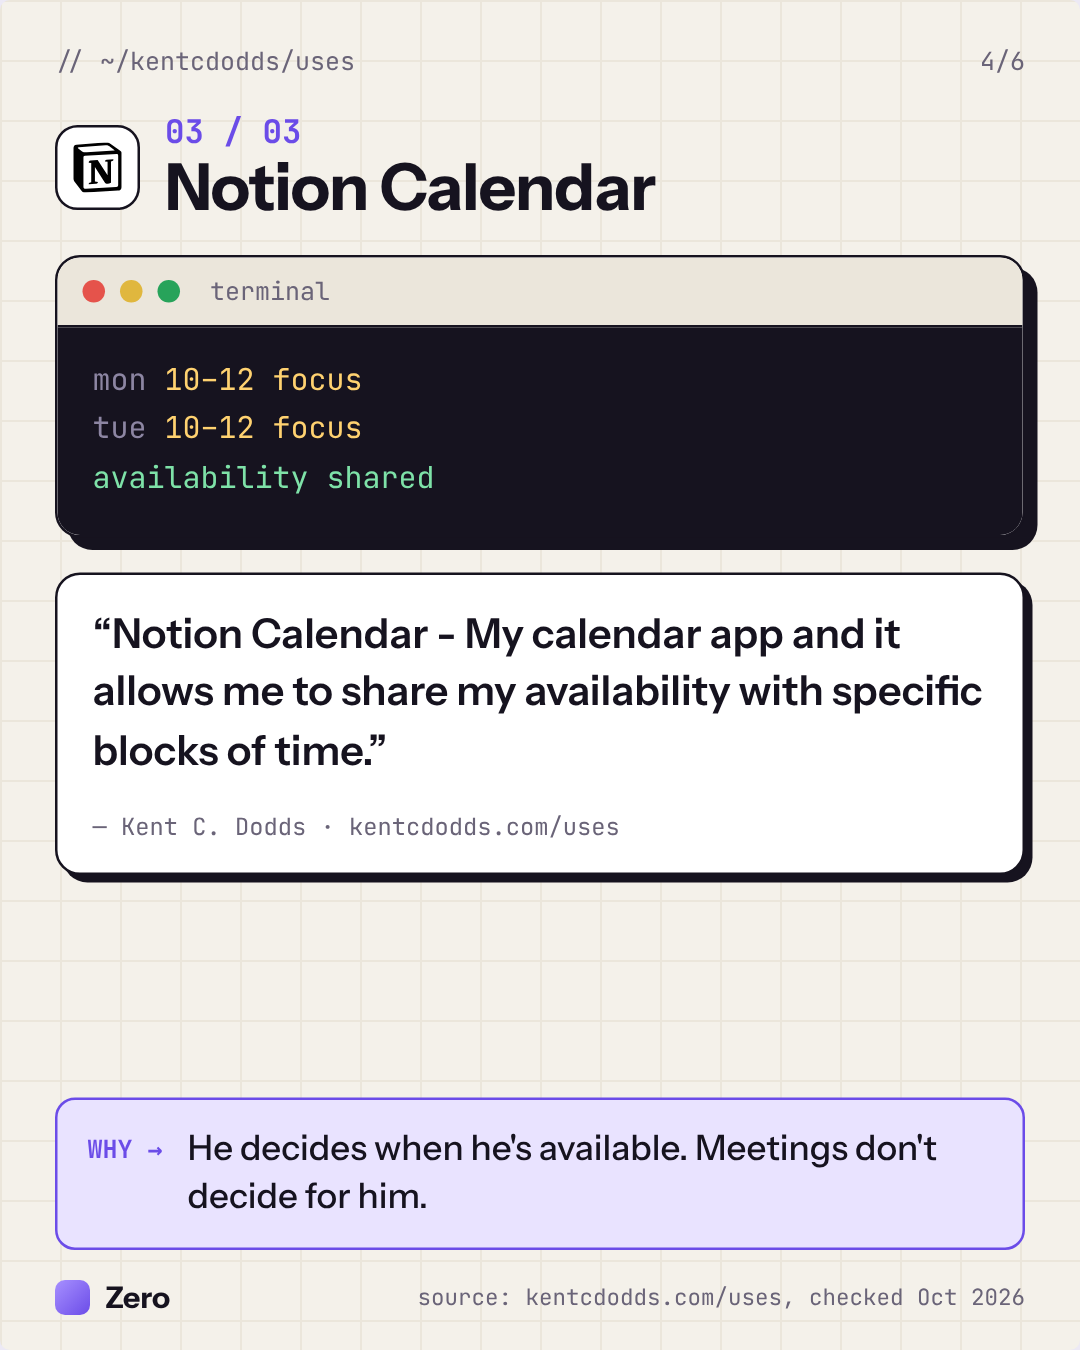
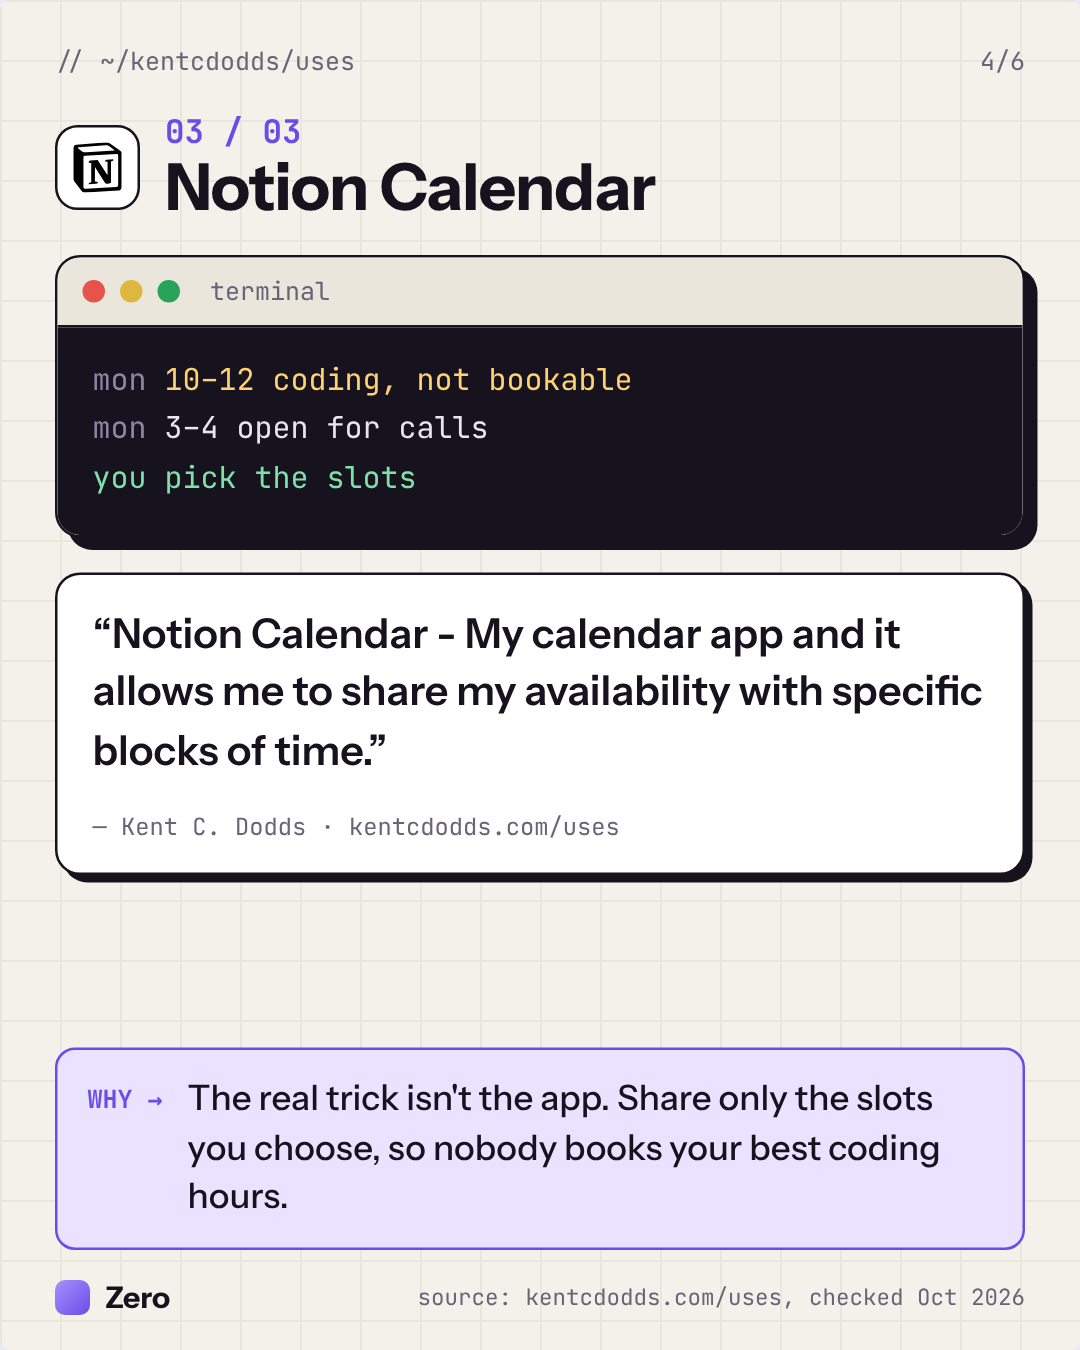
Rewrite Kent C. Dodds carousel in plain, no-hype language
Claude-Session: https://claude.ai/code/session_01EodZgjd13DjtzjPJnHAn5H

diff --git a/carousels/setups.html b/carousels/setups.html
@@ -100,18 +100,19 @@ const S=[
   tldr:["Use a terminal you actually enjoy","Give AI agents more than one try","Block the last 30 min for agents, notifications off"],
   zero:"He blocks his time by hand. If you want those blocks booked for you, try Zero.",zline:"It finds free time in your week, books deep work blocks, and turns Slack asks into tasks."},
  {id:"kent",who:"Kent C. Dodds",role:"ex-PayPal engineer, JavaScript educator",src:"kentcdodds.com/uses, checked Oct 2026",
-  hook:["Kent C. Dodds","shared the tools he","uses <span class='hl'>every day</span>."],
-  sub:"From his public /uses page. 3 picks you can set up today.",
+  hook:["No hype.","Just the 3 tools","Kent C. Dodds <span class='hl'>actually</span> uses."],
+  sub:"Straight from his public /uses page. Nothing sponsored, nothing fancy. Just stuff that works.",
   file:"~/kentcdodds/uses",
   t:[
-   {n:"01",name:"Cursor",logo:"⌘",term:`<span class="m">$</span> cursor .<br><span class="v">›</span> tab, tab, tab<br><span class="g">✓ feature done</span>`,
-    q:"Cursor - My preferred editor.",c:"kentcdodds.com/uses",why:"An AI-first editor. If you live in VS Code, the switch takes 5 minutes."},
-   {n:"02",name:"Raycast + Wispr Flow",logo:"raycast",term:`<span class="v">⌥ space</span> → open anything<br><span class="v">fn</span> → speak instead of type<br><span class="g">fewer clicks, faster notes</span>`,
-    q:"Raycast… Wispr Flow - Voice to text (AI)",c:"kentcdodds.com/uses",why:"A launcher for everything, plus voice typing for long messages and prompts."},
-   {n:"03",name:"Notion Calendar",logo:"notion",term:`<span class="m">mon</span> <span class="y">10–12 focus</span><br><span class="m">tue</span> <span class="y">10–12 focus</span><br><span class="g">availability shared</span>`,
-    q:"Notion Calendar - My calendar app and it allows me to share my availability with specific blocks of time.",c:"kentcdodds.com/uses",why:"He decides when he's available. Meetings don't decide for him."}],
-  tldr:["Try an AI-first editor for a week","Use a launcher and voice typing to save clicks","Share availability in blocks, not your whole day"],
-  zero:"Like the Notion Calendar idea? Another option to try is Zero.",zline:"It works on Google Calendar and books focus blocks from your Slack, Jira and Linear asks."},
+   {n:"01",name:"Cursor",logo:"⌘",term:`<span class="m">$</span> cursor .<br><span class="v">cmd+k</span> → "add error handling here"<br><span class="g">✓ done, you review it</span>`,
+    q:"Cursor - My preferred editor.",c:"kentcdodds.com/uses",why:"Honestly, it's VS Code with AI built in. Your extensions and shortcuts come with you, so trying it costs you nothing. Use it on one real task this week."},
+   {n:"02",name:"Raycast + Wispr Flow",logo:"raycast",term:`<span class="v">⌥ space</span> → open apps, files, snippets<br><span class="v">fn</span> → talk, it types for you<br><span class="g">less clicking around</span>`,
+    q:"Raycast… Wispr Flow - Voice to text (AI)",c:"kentcdodds.com/uses",why:"Raycast is one shortcut for everything, so your hands stay on the keyboard. Wispr Flow is for long stuff, like prompts and PR descriptions. Talking is just faster."},
+   {n:"03",name:"Notion Calendar",logo:"notion",term:`<span class="m">mon</span> <span class="y">10–12 coding, not bookable</span><br><span class="m">mon</span> 3–4 open for calls<br><span class="g">you pick the slots</span>`,
+    q:"Notion Calendar - My calendar app and it allows me to share my availability with specific blocks of time.",c:"kentcdodds.com/uses",why:"The real trick isn't the app. Share only the slots you choose, so nobody books your best coding hours."}],
+  tldrTitle:"No hype. Just this:",
+  tldr:["Use an editor with AI built in, and test it on real work","Keep your hands on the keyboard: launcher + voice typing","Decide your free slots before someone else does"],
+  zero:"Same idea, less effort.",zline:"Zero looks at your Google Calendar, finds free time and books focus blocks for you. Slack and Jira asks turn into tasks, not interruptions. It's a free Chrome extension. Try it for a week and see."},
  {id:"cassidy",who:"Cassidy Williams",role:"developer & writer (cassidoo)",src:"cassidoo.co, \"Productivity apps I use in 2024\"",
   hook:["Cassidy Williams","shared the 3 apps that","keep her <span class='hl'>focused</span>."],
   sub:"From her yearly productivity post. Simple, and it works.",
@@ -141,7 +142,7 @@ function slides(s){
   <div class="why"><b>WHY →</b><span>${t.why}</span></div>`)));
  a.push(fr(s,5,`
   <p class="tag" style="align-self:flex-start">tl;dr, save this</p>
-  <h2 class="h2" style="margin-top:12px">${s.who.split(" ")[0]}'s setup in 3 lines</h2>
+  <h2 class="h2" style="margin-top:12px">${s.tldrTitle||s.who.split(" ")[0]+"'s setup in 3 lines"}</h2>
   <div class="win" style="margin-top:16px;padding:6px 14px">${s.tldr.map(x=>`<div class="check"><span class="box">✓</span><span>${x}</span></div>`).join("")}</div>
   <p class="p muted" style="margin-top:auto;font-size:13px">Which one are you trying first? Tell us in the comments.</p>`));
  a.push(fr(s,6,`
